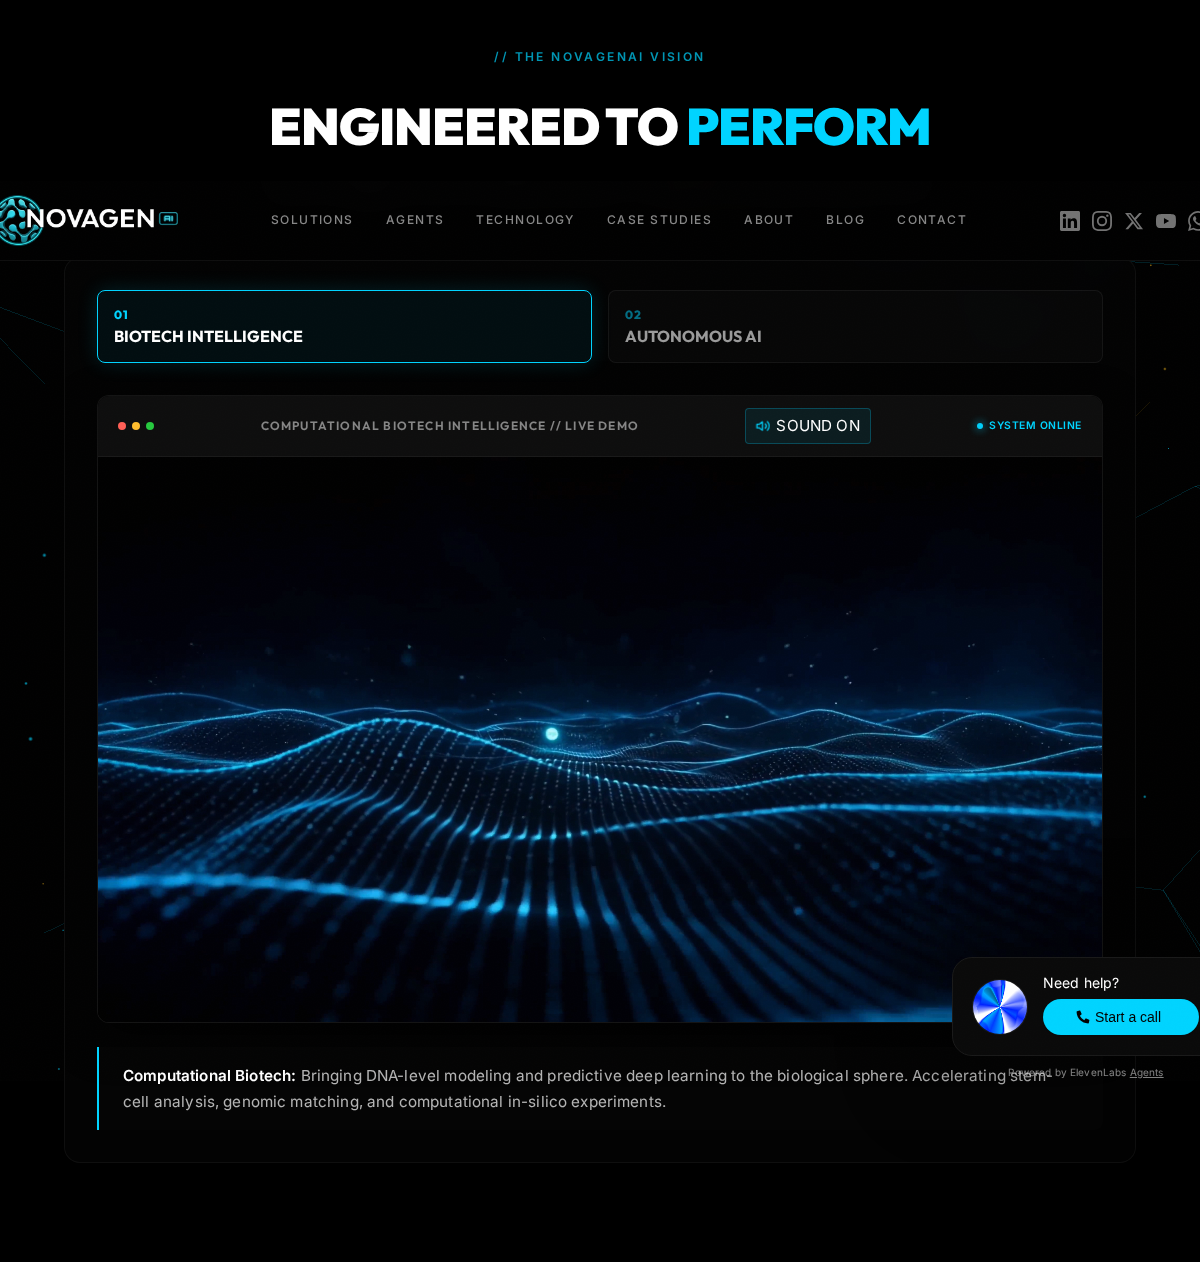
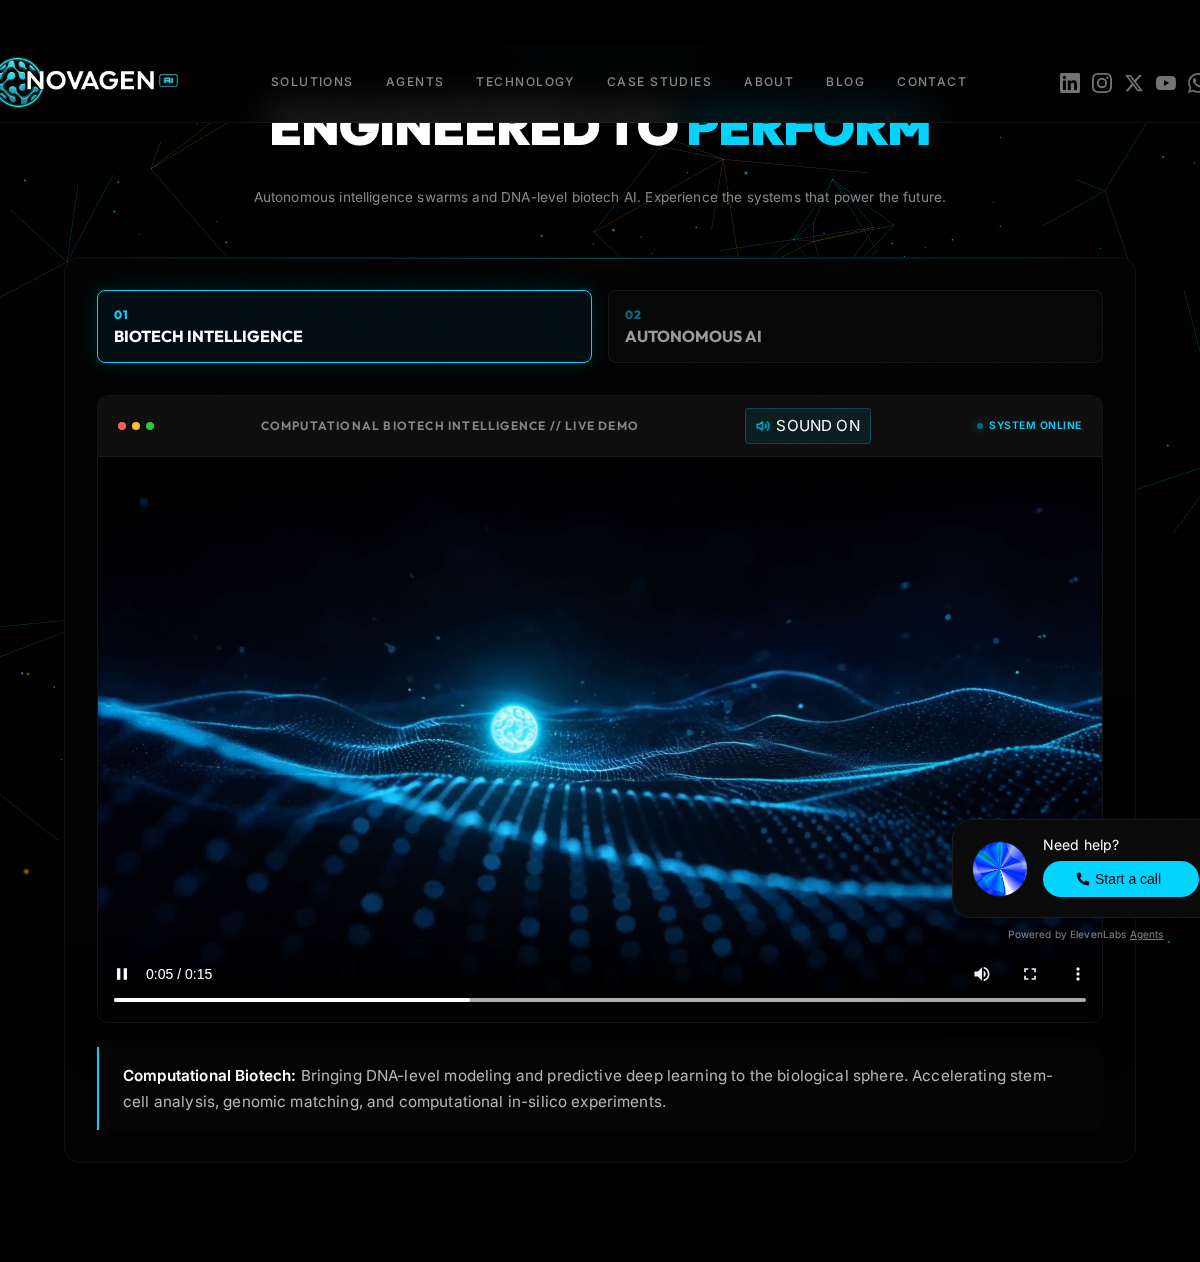
feat: implement continuous document unmute and hover-unmuting triggers to resolve browser autoplay blocks

diff --git a/index.html b/index.html
@@ -1155,14 +1155,14 @@
                 <div class="showroom-video-wrapper">
                     <!-- Video 1: Biotech (Active) -->
                     <div class="showroom-video-item active" id="video-item-0">
-                        <video preload="metadata" poster="blog/media/poster-biotech.jpg" playsinline controls loop>
+                        <video preload="metadata" poster="blog/media/poster-biotech.jpg" playsinline controls muted loop>
                             <source src="blog/media/vision-main.mp4" type="video/mp4">
                         </video>
                     </div>
 
                     <!-- Video 2: Intelligence -->
                     <div class="showroom-video-item" id="video-item-1">
-                        <video preload="metadata" poster="blog/media/poster-intelligence.jpg" playsinline controls loop>
+                        <video preload="metadata" poster="blog/media/poster-intelligence.jpg" playsinline controls muted loop>
                             <source src="blog/media/ai-intelligence-eye.mp4" type="video/mp4">
                         </video>
                     </div>
@@ -1271,19 +1271,38 @@
     }
 
     document.addEventListener('DOMContentLoaded', () => {
-        // Doc click gestural listener to unmute on click (defaulting sound to ON)
-        const unmuteOnFirstClick = () => {
-            if (userHasInteracted) return;
+        // Continuous unmute listener: unmutes active video on any click anywhere on the page
+        document.addEventListener('click', () => {
             const activeVideo = document.querySelector('.showroom-video-item.active video');
             if (activeVideo && activeVideo.muted) {
-                activeVideo.muted = false;
-                updateAudioUI(false);
-                activeVideo.play().catch(e => console.log(e));
+                const iconText = document.getElementById('audio-text');
+                const userWantsMuted = iconText ? iconText.textContent.includes('MUTED') : false;
+                if (!userWantsMuted) {
+                    activeVideo.muted = false;
+                    updateAudioUI(false);
+                    activeVideo.play().catch(e => console.log(e));
+                }
             }
-            userHasInteracted = true;
-            document.removeEventListener('click', unmuteOnFirstClick);
-        };
-        document.addEventListener('click', unmuteOnFirstClick);
+        });
+
+        // Also unmute immediately if they hover or touch inside the showroom container
+        const container = document.querySelector('.showroom-container');
+        if (container) {
+            const unmuteOnInteraction = () => {
+                const activeVideo = document.querySelector('.showroom-video-item.active video');
+                if (activeVideo && activeVideo.muted) {
+                    const iconText = document.getElementById('audio-text');
+                    const userWantsMuted = iconText ? iconText.textContent.includes('MUTED') : false;
+                    if (!userWantsMuted) {
+                        activeVideo.muted = false;
+                        updateAudioUI(false);
+                        activeVideo.play().catch(e => console.log(e));
+                    }
+                }
+            };
+            container.addEventListener('mouseenter', unmuteOnInteraction);
+            container.addEventListener('touchstart', unmuteOnInteraction);
+        }
 
         const observer = new IntersectionObserver((entries) => {
             entries.forEach(entry => {